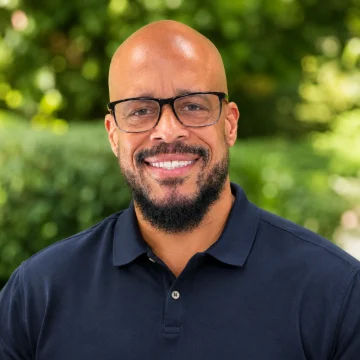
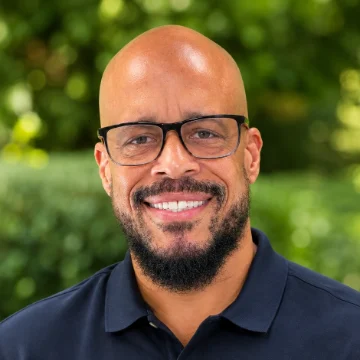
Landing: center Pat in the advisor photo

diff --git a/docs/DECISIONS.md b/docs/DECISIONS.md
@@ -299,7 +299,7 @@ Pat sent a seven-point upgrade list. (1) Still white-labeled; the two-team box n
 Headline is now "After ARV HELOC". The build adds "(ARV)" after every "after renovation" in the page text ("After-Renovation (ARV) HELOC", "after-renovation value (ARV)") and fails if one is missing. The borrowing power calculator is removed entirely (markup, styles, script), so the page again has no inputs at all and the build fails on any form or input. The header's "Get Pre-qualified" button is replaced by the phone number with a round phone icon, as on Let's Talk ADU: (949) 787-2662, also added to the hero and final notes, the advisor card, the footer and the phone bottom bar (call button next to "Get Pre-qualified"). Pat's name is gone everywhere except the footer licensing lines; the page says "your ADU loan advisor", the advisor card is "Your ADU Loan Advisor" with a house icon, and the build fails if "Pat" or "Collins" appears outside the footer (the email link still goes to pcollins@emortgagecapital.com). All drawings are replaced by seven Higgsfield images (gpt_image_2_6, 1.75 credits) in one style: premium 3D architectural-model renders, three-quarter view, soft daylight, white stucco, oak, navy trim, white background. That style was picked because it looks high-end, matches the brand colors and reads plainly as an illustration rather than a real client's property. Files in `landing/img/` (WebP, about 450 KB total); the old SVG drawings and `gen-art.js` are removed. The build's last-two-words joiner now treats numeric entities such as the no-break hyphen as part of a word. Checked at six widths: no lone last words, no sideways scroll.
 
 **D91. Advisor card is Pat Collins again, with Pat's photo (Pat, chat 2026-11-21).**
-The advisor card goes back to the named version: eyebrow "About your ADU loan advisor", "Pat Collins", "ADU loan advisor · NMLS #1628553 · E Mortgage Capital Inc.", "Pat specializes in ADU financing…", and "Send It to Pat for a Free Financing Feasibility Check". The phone number stays under it. The avatar is Pat's headshot (supplied in chat, center-cropped to `landing/img/pat-collins.webp`, 360 px, 16 KB). The rest of the page stays generic ("your ADU loan advisor"); the build now allows Pat's name in the footer and in the advisor card only.
+The advisor card goes back to the named version: eyebrow "About your ADU loan advisor", "Pat Collins", "ADU loan advisor · NMLS #1628553 · E Mortgage Capital Inc.", "Pat specializes in ADU financing…", and "Send It to Pat for a Free Financing Feasibility Check". The phone number stays under it. The avatar is Pat's headshot (supplied in chat, cropped to `landing/img/pat-collins.webp`, 360 px; re-cropped 2026-11-21 so his face sits in the center of the round frame: 940 px square around x 566, y 455 of the 1176 px original). The rest of the page stays generic ("your ADU loan advisor"); the build now allows Pat's name in the footer and in the advisor card only.
 
 **D92. financemyadu.io back online with the landing page as the whole site (Pat, chat 2026-11-21: "publish it now and make it live").**
 The Pages workflow no longer builds the old funnel and hub. It sets up Node 22, runs `node landing/build.mjs` (so the copy and compliance checks run on every deploy), then `scripts/landing-site-build.ps1` copies only the page, `img/`, `assets/`, favicons, CNAME, a robots.txt that allows everything (the page itself stays noindex) and a 404 page that sends old /funnel/ and /hub/ addresses to the home page. GitHub Pages was re-created (build type workflow, custom domain financemyadu.io) and the branch pushed to main. The page has no form, so the Nov 5 spam path (the public GHL webhook) is not used. `scripts/pages-build.ps1` and `SITE_OFFLINE` stay in the repo but are no longer used by the deploy. Pat chose to go live before the compliance items in docs/PAT-INPUTS.md were cleared (Reg Z disclosures for the interest-only payment terms and "5% down", program numbers, AI illustrations).
